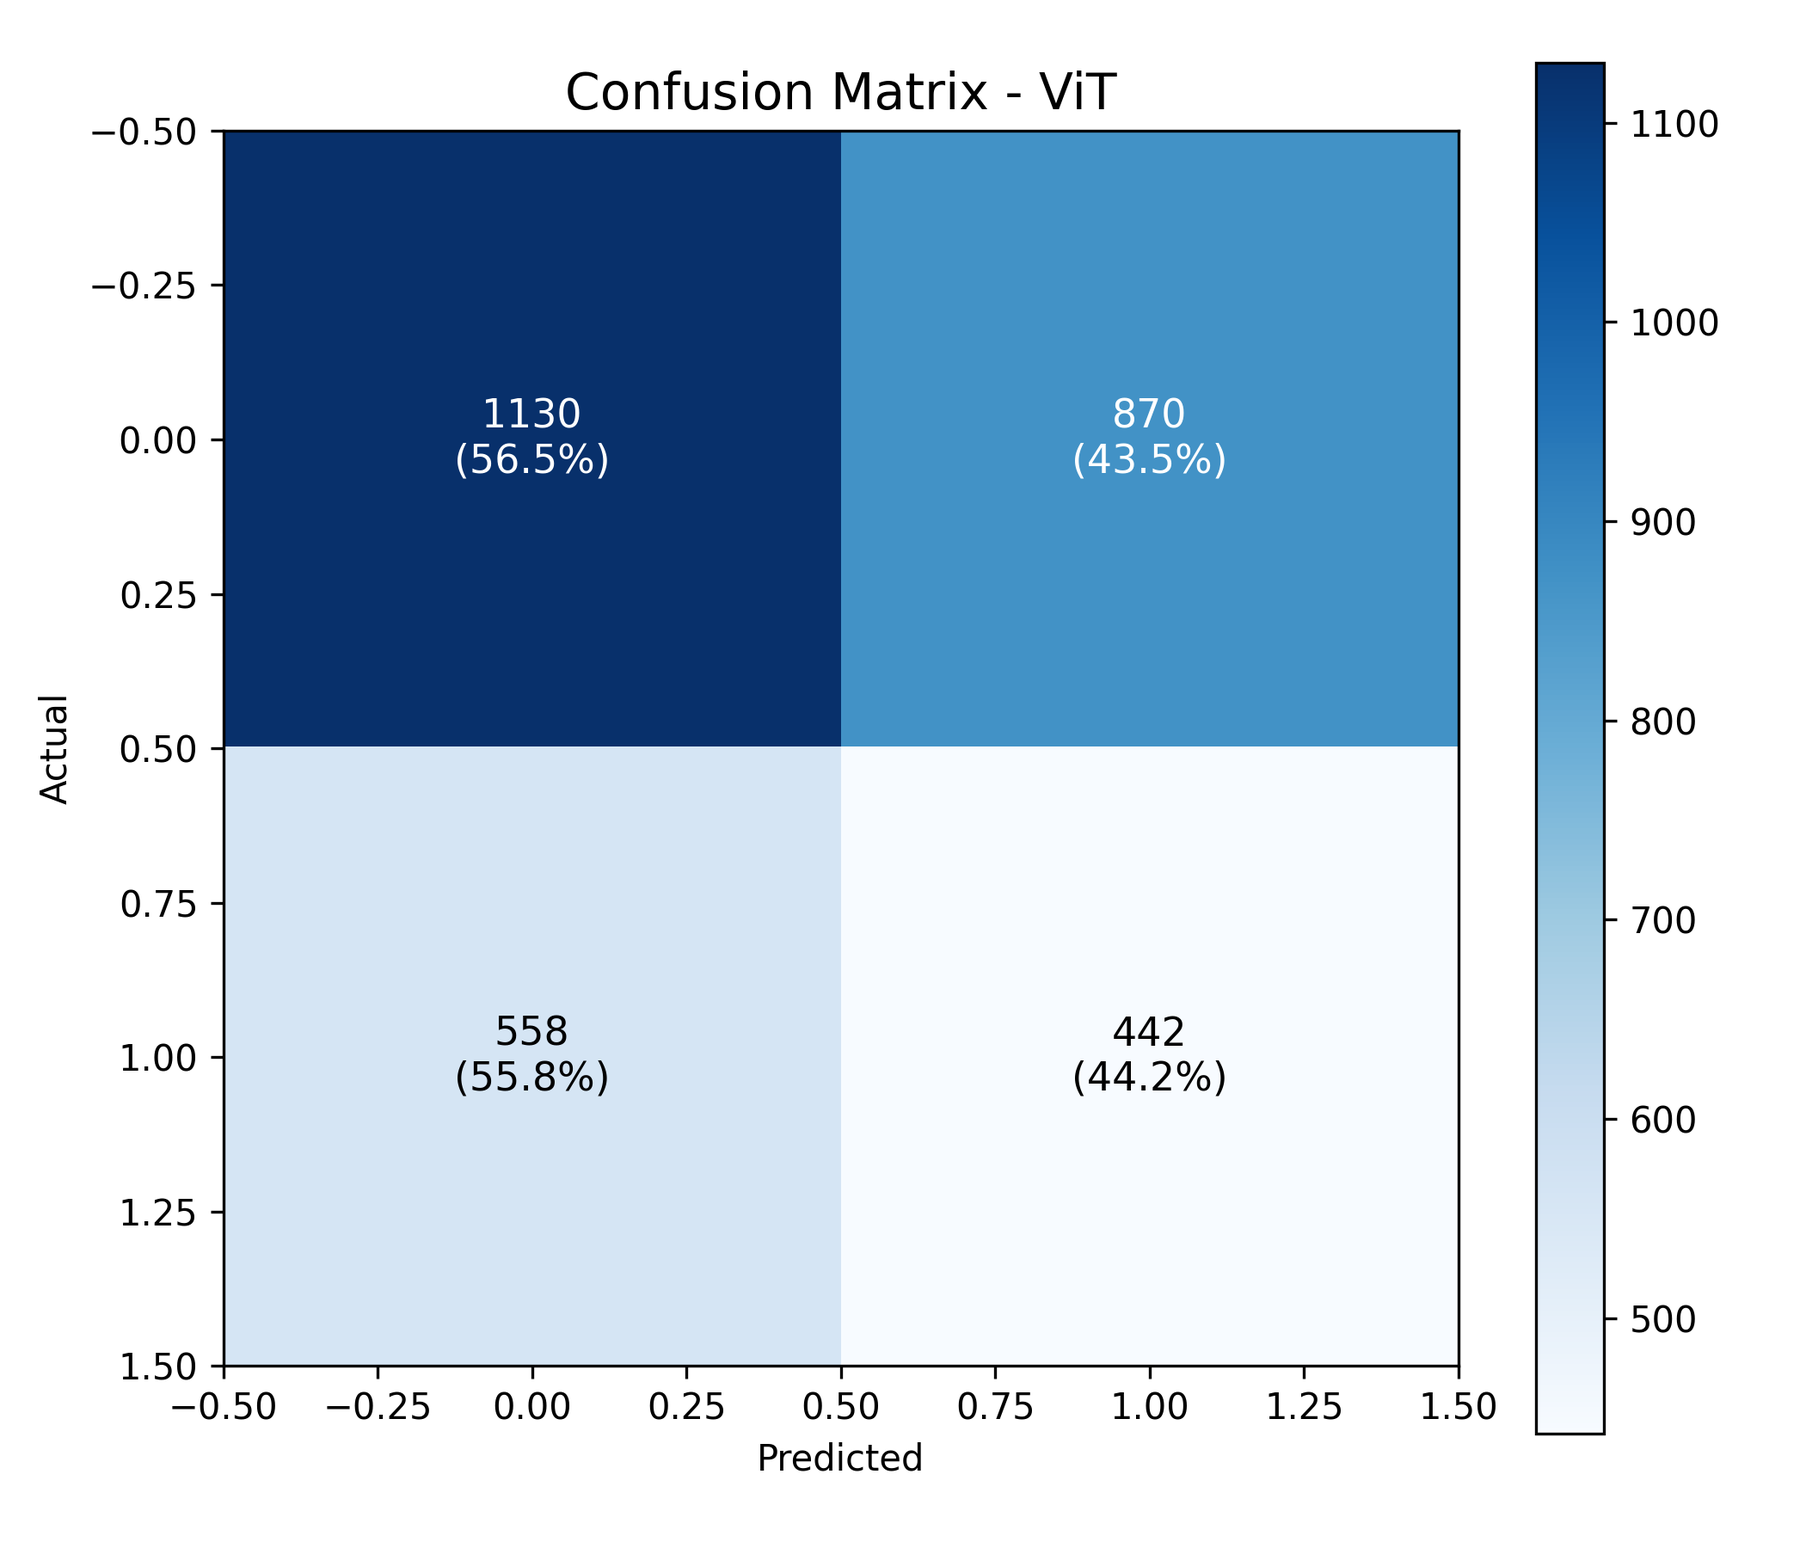
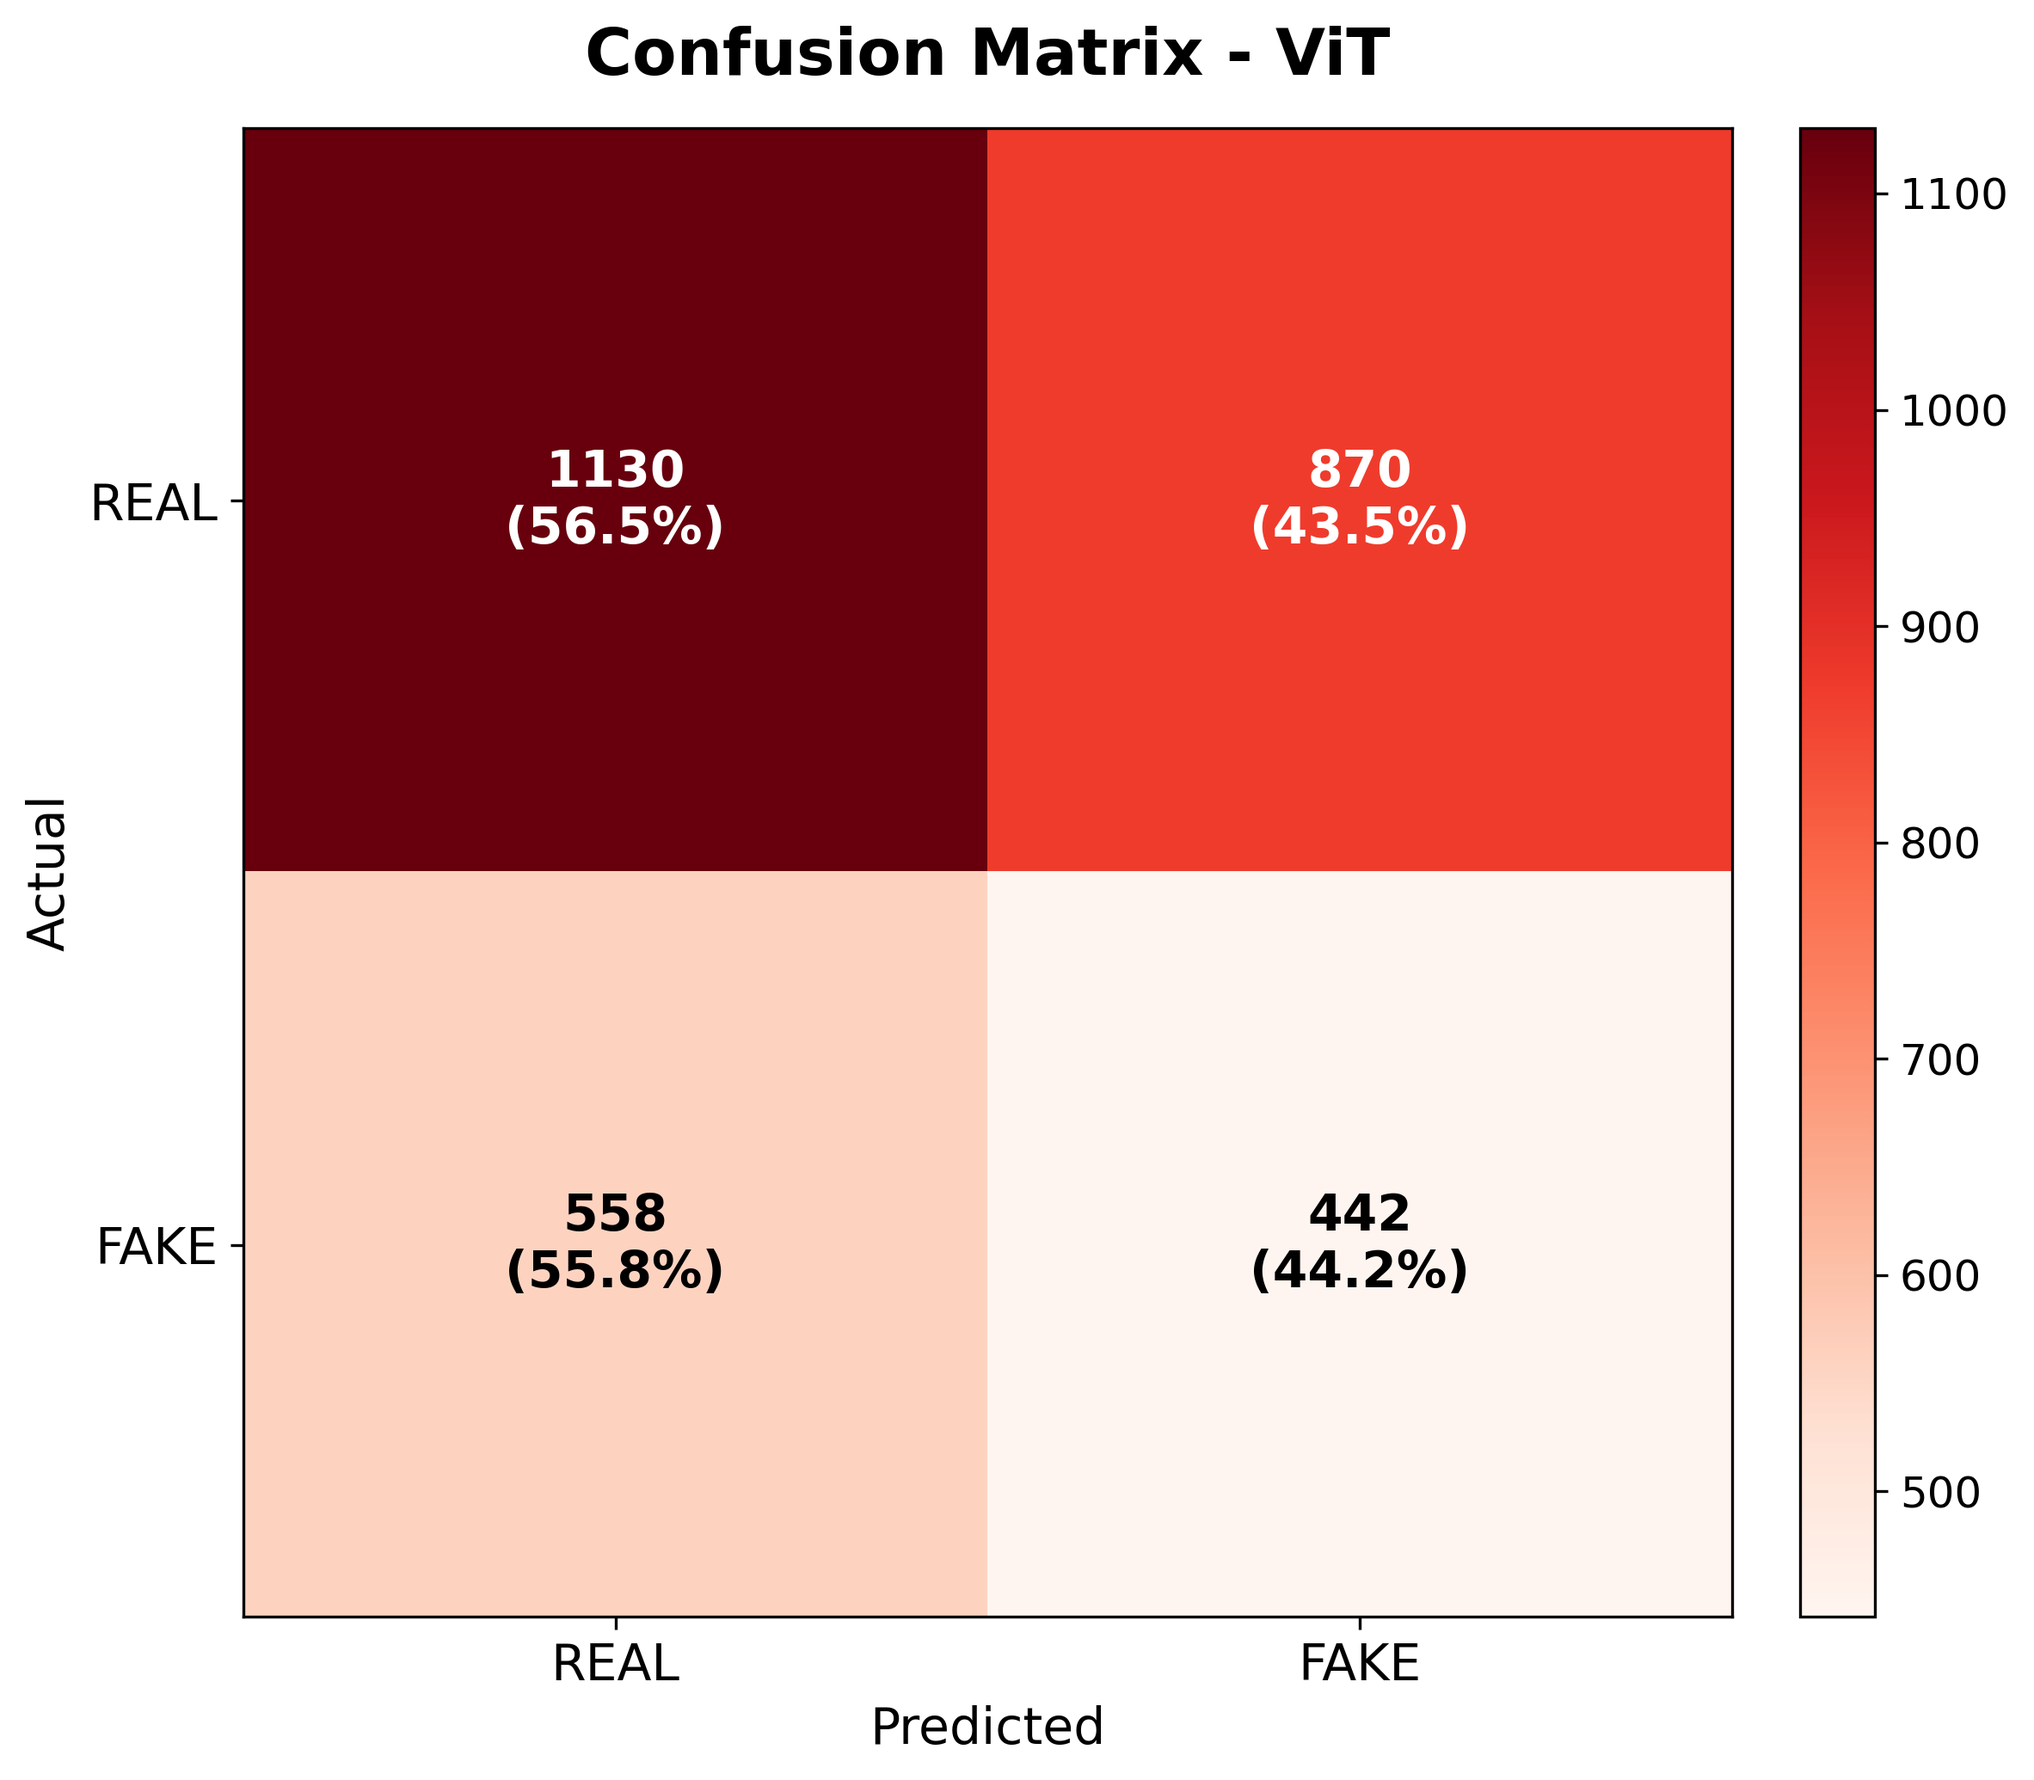
add

diff --git a/src/image_ai/test_vit.py b/src/image_ai/test_vit.py
@@ -67,6 +67,9 @@ label_map = {
 for label_name, label_id in label_map.items():
     folder = os.path.join(DATA_DIR, label_name)
 
+    if not os.path.exists(folder):
+        continue
+
     for file in os.listdir(folder):
         if file.lower().endswith((".jpg", ".jpeg", ".png")):
             image_paths.append(os.path.join(folder, file))
@@ -129,7 +132,7 @@ with torch.no_grad():
 # ===============================
 print("\n=== REPORT (ViT) ===\n")
 
-report_text = classification_report(labels_list, preds, target_names=["Real", "Fake"])
+report_text = classification_report(labels_list, preds, target_names=["REAL", "FAKE"])
 print(report_text)
 
 # ===============================
@@ -155,22 +158,26 @@ df_report.to_csv(csv_path, encoding="utf-8")
 print("Saved CSV:", csv_path)
 
 # ===============================
-# CONFUSION MATRIX (ĐẸP NHƯ ROBERTA)
+# CONFUSION MATRIX (BERT STYLE)
 # ===============================
 cm = confusion_matrix(labels_list, preds)
 
-labels_name = ["Real", "Fake"]
+labels_name = ["REAL", "FAKE"]
 cm_percent = cm.astype("float") / cm.sum(axis=1)[:, np.newaxis]
 
-plt.figure(figsize=(7, 6))
-plt.imshow(cm, interpolation="nearest", cmap="Blues")
+plt.figure(figsize=(8, 7))
 
-plt.title("Confusion Matrix - ViT (Real vs Fake)", fontsize=14)
-plt.colorbar()
+im = plt.imshow(cm, interpolation="nearest", cmap="Reds")
+
+plt.title("Confusion Matrix - ViT", fontsize=18, fontweight="bold", pad=15)
+
+cbar = plt.colorbar(im, fraction=0.046, pad=0.04)
+cbar.ax.tick_params(labelsize=12)
 
 tick_marks = np.arange(len(labels_name))
-plt.xticks(tick_marks, labels_name)
-plt.yticks(tick_marks, labels_name)
+
+plt.xticks(tick_marks, labels_name, fontsize=14)
+plt.yticks(tick_marks, labels_name, fontsize=14)
 
 threshold = cm.max() / 2
 
@@ -181,16 +188,19 @@ for i in range(cm.shape[0]):
             f"{cm[i, j]}\n({cm_percent[i, j]*100:.1f}%)",
             ha="center",
             va="center",
-            color="white" if cm[i, j] > threshold else "black",
-            fontsize=11
+            fontsize=14,
+            fontweight="bold",
+            color="white" if cm[i, j] > threshold else "black"
         )
 
-plt.ylabel("Actual", fontsize=12)
-plt.xlabel("Predicted", fontsize=12)
+plt.ylabel("Actual", fontsize=14)
+plt.xlabel("Predicted", fontsize=14)
+
+plt.grid(False)
 plt.tight_layout()
 
 img_path = os.path.join(RESULT_DIR, "vit_confusion_matrix.png")
-plt.savefig(img_path, dpi=300)
+plt.savefig(img_path, dpi=300, bbox_inches="tight")
 plt.close()
 
 print("Saved Image:", img_path)
